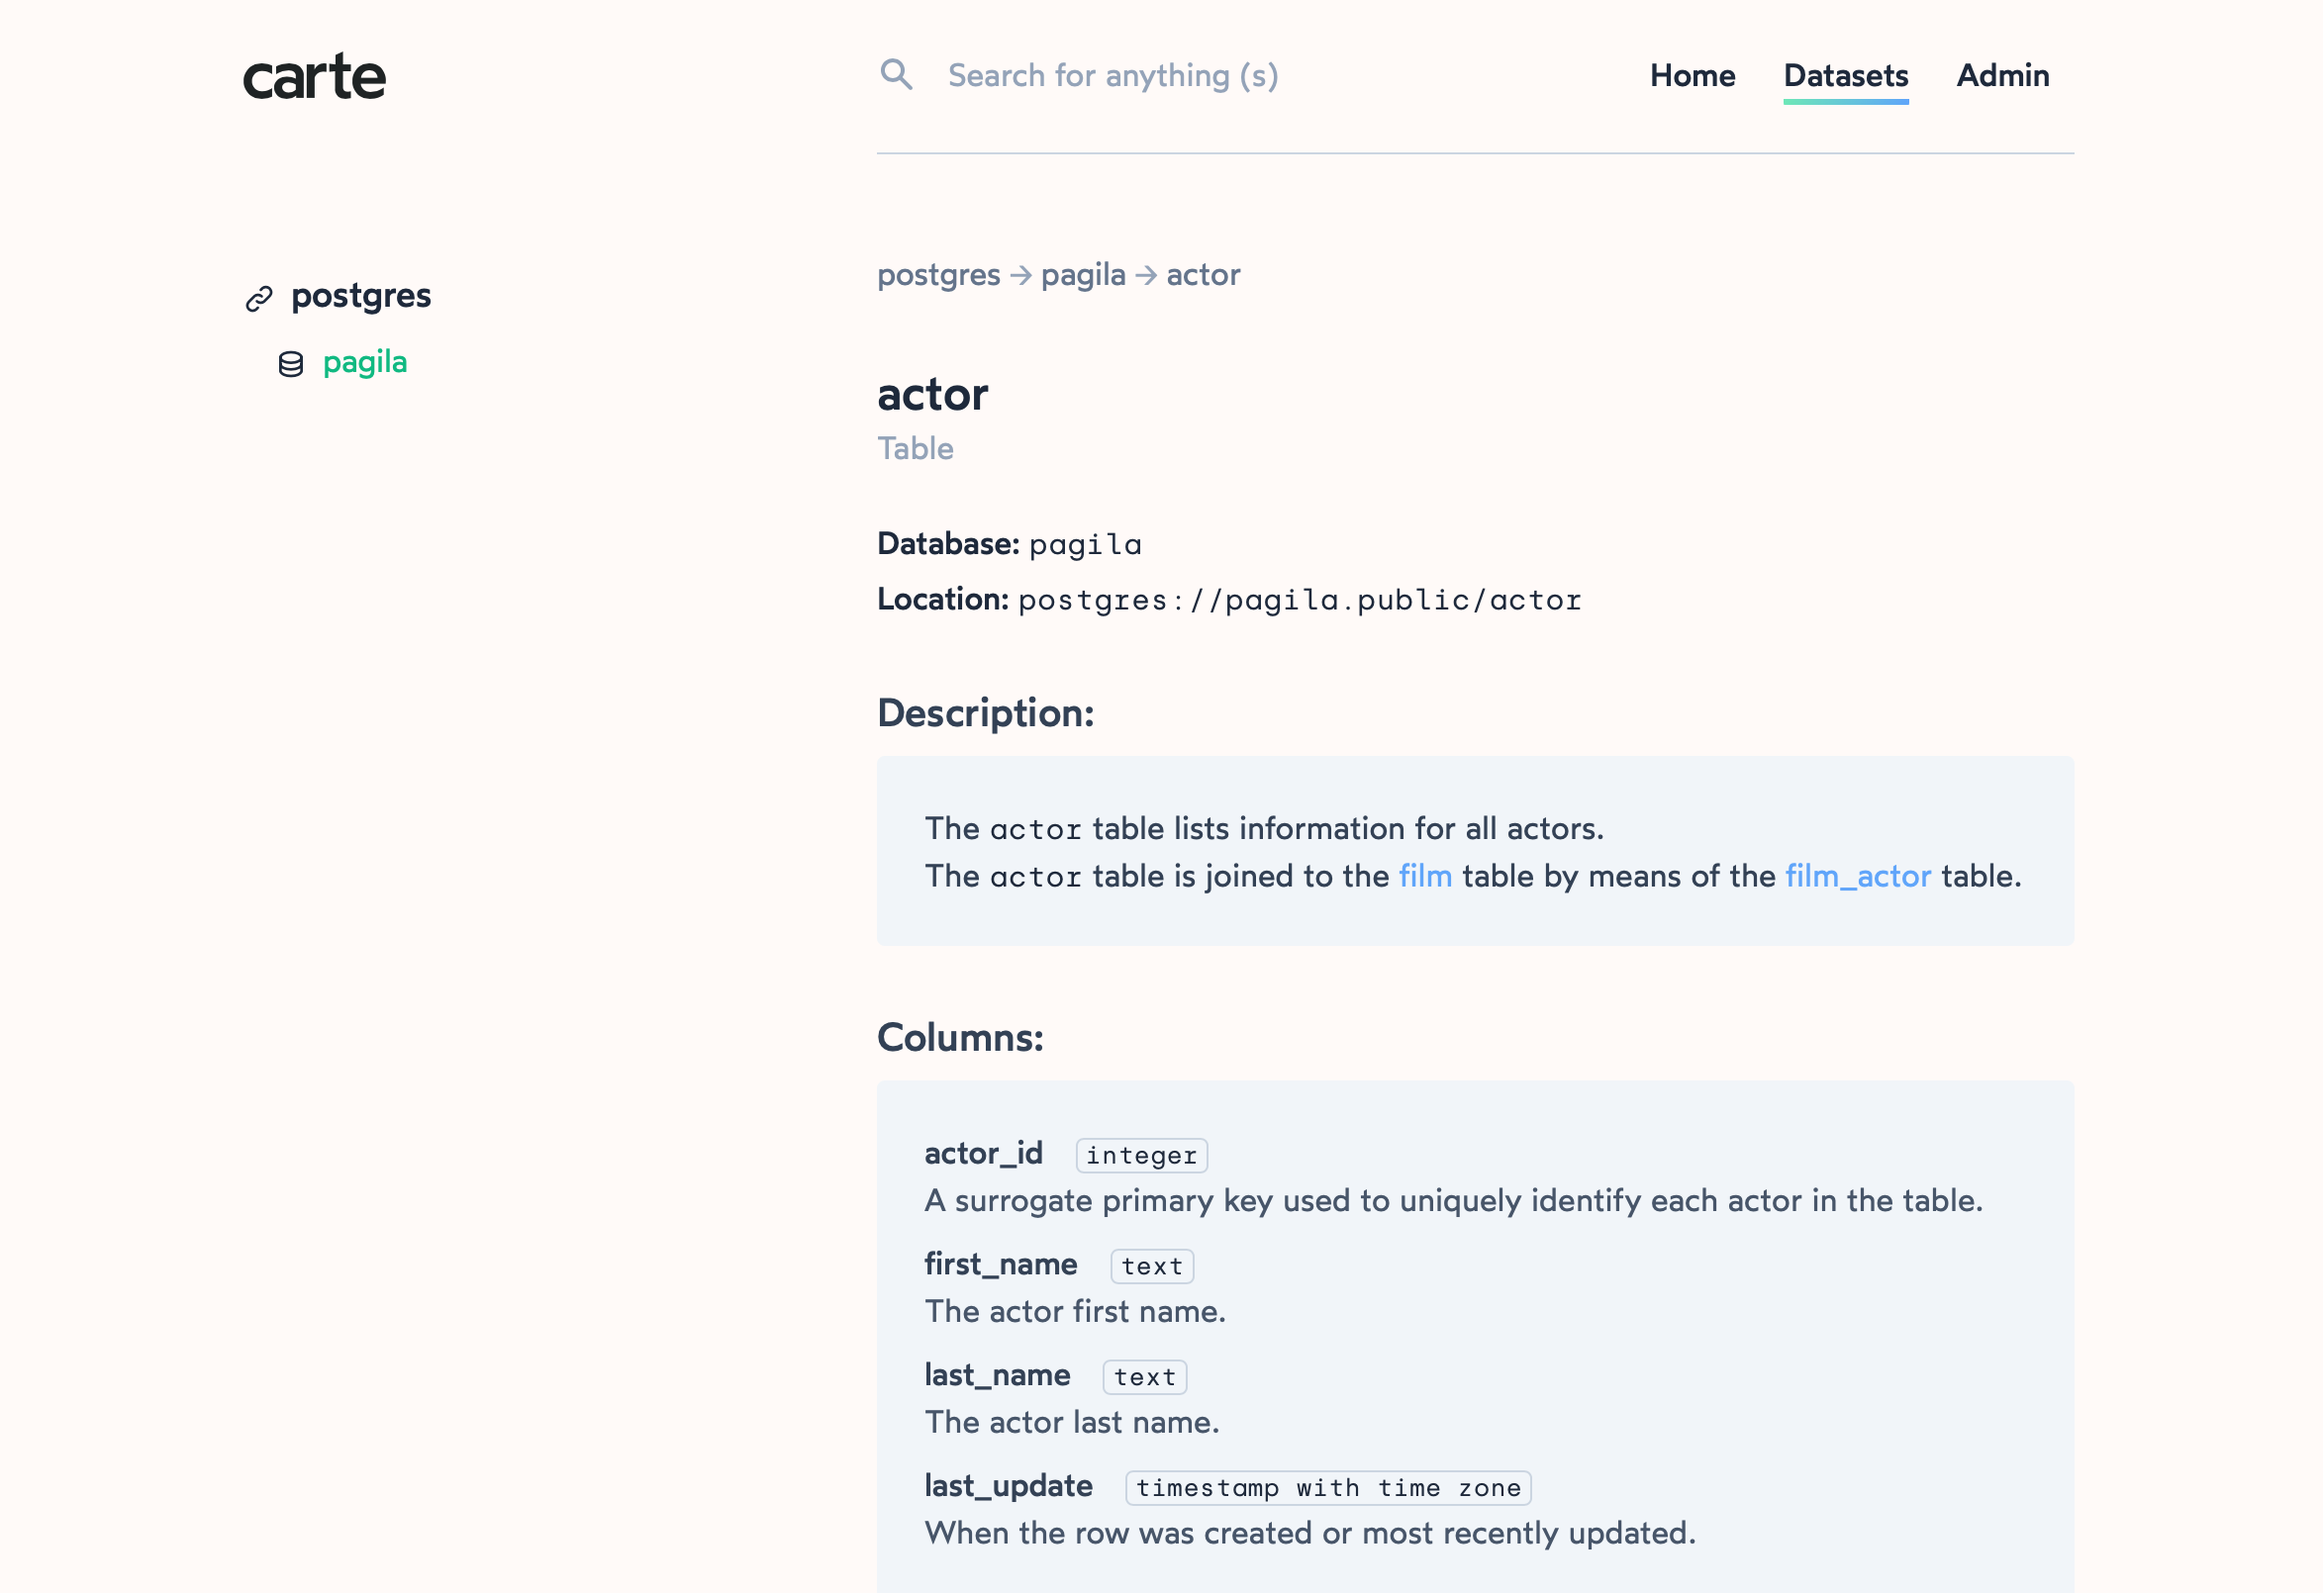
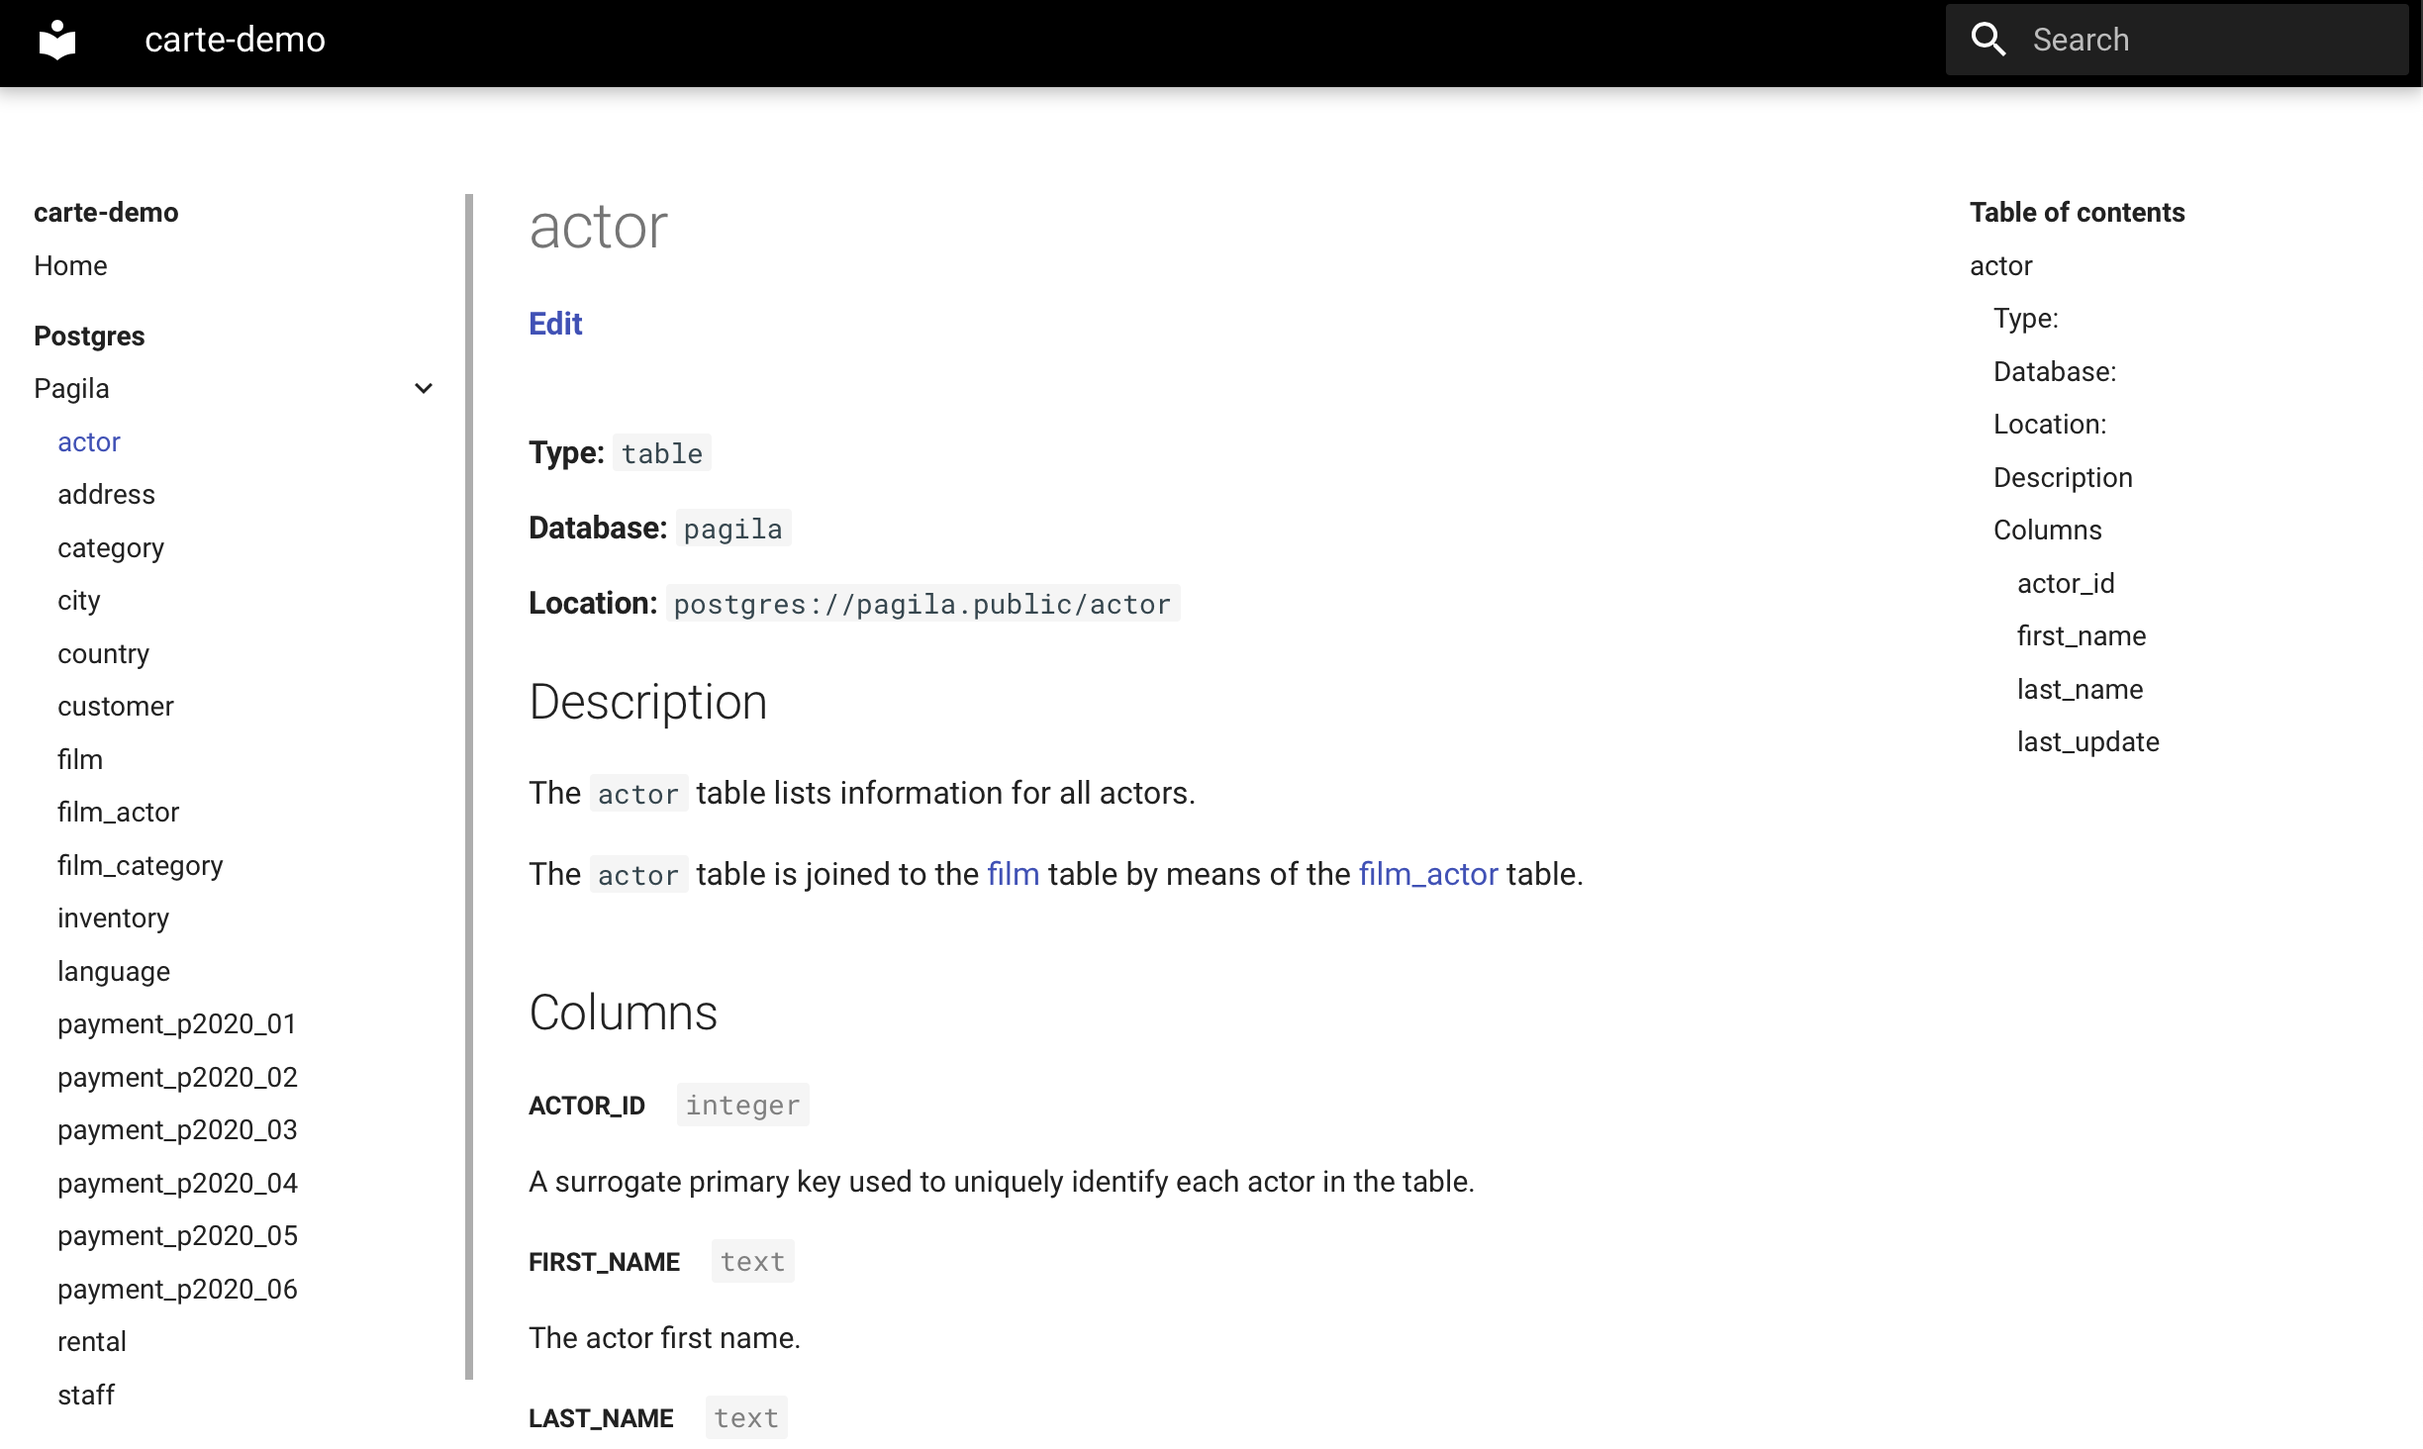
update getting started section

diff --git a/docs/reference/commands.md b/docs/reference/commands.md
@@ -1,0 +1,31 @@
+# CLI Command reference
+
+The arguments to the CLI commands can be found by running `carte -h`. At this point new commands are added fast enough so that only the core ones are documented here.
+
+## extract
+
+The first (required) argument is the path to the extraction config file (detailed in [the Extracting metadata section](/getting_started/extracting_metadata/)).
+
+There's a second, optional option with flag `-o`, which sets the output directory. To perform extraction with the current folder containing the `extract.config.yml` file and pulling the results into the `datasets` folder, you would run
+
+```sh
+carte extract extract.config.yml -o datasets
+```
+
+## new
+
+This command scaffolds a new Carte catalog site (it clones [the frontend repo](https://github.com/carte-data/carte-frontend) and sets up a few things).
+
+The only required argument is the name of the site. This creates a folder with the same name within the current directory.
+
+There are two optional flags:
+
+1. `--no-admin` – doesn't scaffold a Netlify CMS subsite to edit your dataset descriptions. This means any changes have to be made through Git directly, or another CMS system.
+2. `--no-sample` - this deletes the sample datasets that are part of the new site. Use this if this is not your first time setting up a Carte site.
+
+
+## flatten
+
+This takes a folder with (technically) Markdown files, that have a structured YAML front matter, and outputs a flattened version, that's just Markdown (and special MkDocs syntax for adding HTML classes to Markdown elements). This is helpful, since MkDocs doesn't search the front matter by default, so only the dataset descriptions would be searchable (and not column names for instance).
+
+For this command, the first argument is the input folder (that you specified with the `-o` flag during extraction), and the second is the output folder (`content`, if you're using the Carte front end). If you'd like to customise the HTML classes and the structure of the resulting files, you can add a `--template` flag, with the path of a template file specified afterwards. This is a Jinja2 template that gets the dataset object passed to it. You won't need to specify the `--template` option in most cases, since the default template displays all the information about datasets. However, if you'd like to change this, you can use the [default template](https://raw.githubusercontent.com/carte-data/carte/main/carte_cli/utils/templates/dataset_flattened.md) as a starting point.

diff --git a/docs/getting_started/extracting_metadata.md b/docs/getting_started/extracting_metadata.md
@@ -3,7 +3,7 @@
 Having sample data is fine, but you'll want to include your own data, right? To do that, the CLI provides the `extract` command. It has the following signature:
 
 ```sh
-carte extract extract.config.yml -o data/datasets
+carte extract extract.config.yml -o datasets
 ```
 
 The first parameter points to a config file that tells Carte which data sources to perform the extraction on. It has the following format:
@@ -21,7 +21,7 @@ more information about the possible configuration options can be found in the [R
 
 ## Folder structure
 
-Carte uses a `<connection>/<database>/<dataset>` folder structure. To give an example, the path for a dataset called `films` in the `postgres` connection and `pagila` database will be `postgres/pagila/films.md`. Moreover, the front end stores the dataset descriptors in the `data/datasets` folder, so the full path will be `data/datasets/postgres/pagila/films.md`.
+Carte uses a `<connection>/<database>/<dataset>` folder structure. To give an example, the path for a dataset called `films` in the `postgres` connection and `pagila` database will be `postgres/pagila/films.md`. Moreover, the front end stores the dataset descriptors in the `datasets` folder, so the full path will be `datasets/postgres/pagila/films.md`.
 
 ## Merging descriptions
 

diff --git a/docs/getting_started/setting_up_admin.md b/docs/getting_started/setting_up_admin.md
@@ -1,0 +1,10 @@
+# Setting up the admin site
+
+The admin site that comes built into Carte is a Netlify CMS instance. By default, each dataset page contains an `Edit` link, that takes you to the corresponding Netlify CMS page, where you can edit (and commit back) the descriptions for the given dataset and its columns.
+
+For this to work, you need to authenticate with your GitHub account, since the CMS will commit changes under your name. This only works with an OAuth server, which Netlify provides (if hosted on their platform). For other scenarios, you can host your own using [any of the options listed in the [CMS' docs](https://www.netlifycms.org/docs/external-oauth-clients/). There's also a great tutorial [here](https://dev.to/bbenefield89/create-your-own-serverless-oauth-portal-for-netlify-cms-afk) about setting up your own Node.js OAuth server. 
+
+I'm also working on a hosted Carte OAuth server that's a drop-in replacement.
+
+To set up the admin site, you need to change the `backend` section in the CMS config file at `content/admin/config.yml`. The available options can be found in the [CMS docs](https://www.netlifycms.org/docs/backends-overview/).
+

diff --git a/docs/getting_started/creating_your_site.md b/docs/getting_started/creating_your_site.md
@@ -16,18 +16,25 @@ cd data-catalog
 and then running
 
 ```sh
-npm install
+pip install -r requirements.txt
 ```
 
 This will install the necessary dependencies to serve the front end locally.
 
 The frontend comes with dummy data prepopulated, so you can play with the site right away. To start development mode, run
 ```sh
-npm run dev
+./scripts/build.sh
+mkdocs serve
 ```
-then view your site at [http://localhost:3000](http://localhost:3000).
+then view your site at [http://localhost:8000](http://localhost:8000).
 
 If you don't want sample data to be included, you can create the site using
 ```sh
 carte new data-catalog --no-sample
 ```
+
+## Details
+
+The front end is an MkDocs based static site set up with the [Material for MkDocs](https://squidfunk.github.io/mkdocs-material/) theme, with some customisations.
+
+The `build.sh` script you ran is for taking the `datasets` folder (which contains the structured Markdown files), and flattening them into the `content` folder as pure Markdown files (no structured front matter). This enables Material for MkDocs to index the fields of the datasets, and make everything searchable.

diff --git a/docs/getting_started/deploying_your_site.md b/docs/getting_started/deploying_your_site.md
@@ -1,0 +1,8 @@
+# Deploying your site
+
+When deploying your site, you need to
+
+1. Flatten the datasets in the `datasets` folder into normal Markdown so that it's searchable. This is done by the `carte flatten datasets content` command, where the first argument (`datasets`) is the source folder and the second (`content`) is the destination
+2. Build the site as normal with MkDocs using the `mkdocs build` command. This puts the HTML output in the `site` folder. This what you deploy then to a static site hosting provider, such as GitHub Pages, Netlify, or Surge.
+
+Both of these things are done by the `scripts/build.sh` script (it just contains the above two commands actually). It's a convenience feature for having just one command to execute on the CI when building the catalog.

diff --git a/docs/roadmap.md b/docs/roadmap.md
@@ -1,0 +1,7 @@
+# Roadmap
+
+* Set up a free OAuth server for authenticating non-Netlify hosted sites
+* Have Carte preserve arbitrary metadata added to columns and datasets
+* Add a `last processed` parameter to dataset pages that displays the date of the last commit for the file
+* Add tagging support
+* **Hosted Carte instance with extra features. If you have a need for this, please let me know at balint at hey dot com**
